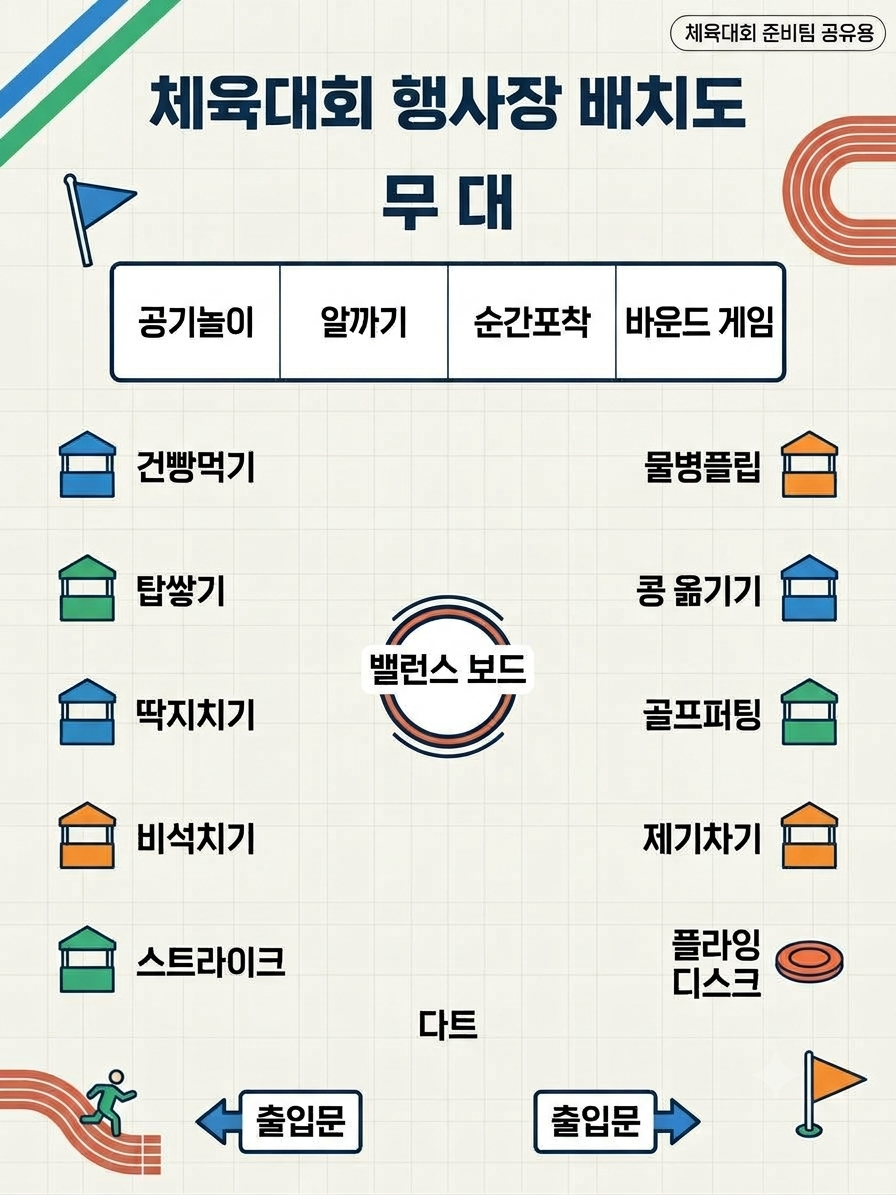
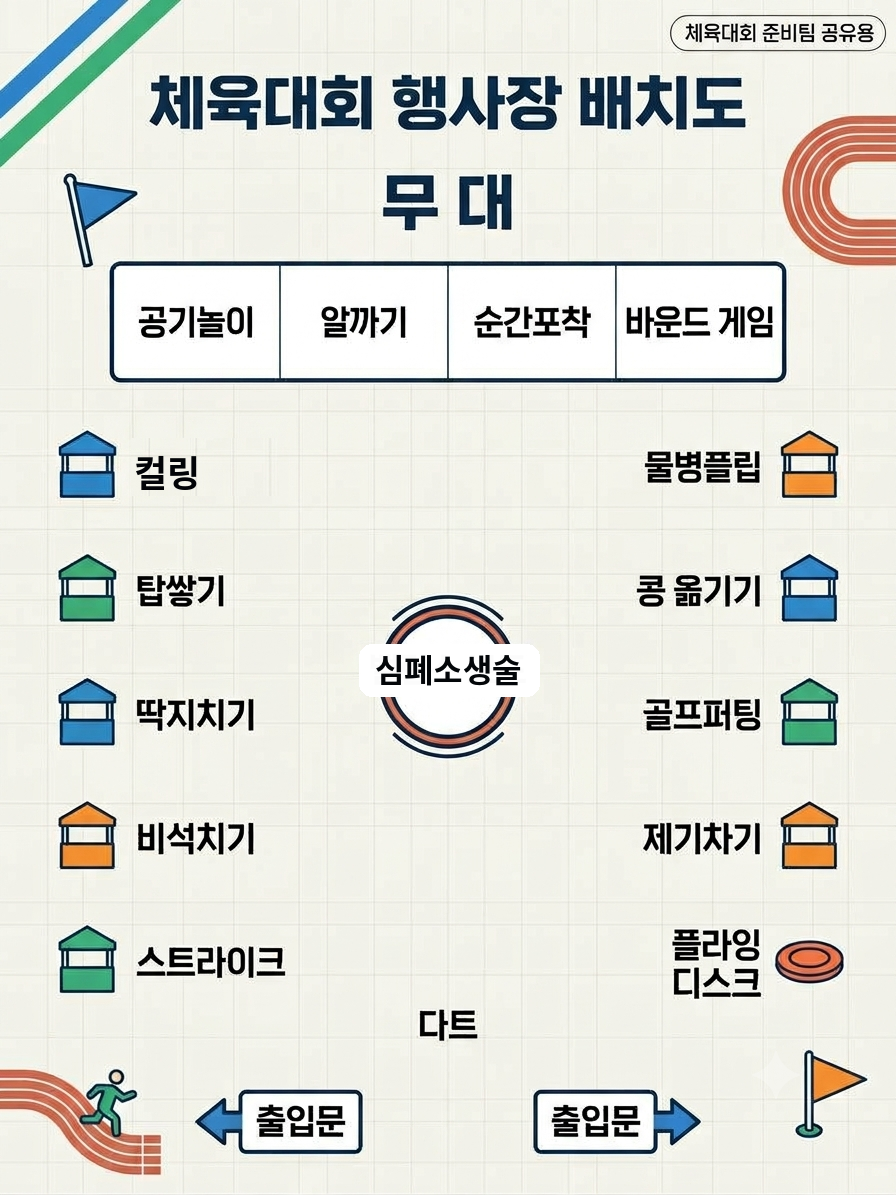
Add files via upload

Changed region(s): [[0.4062, 0.5264, 0.5938, 0.5883], [0.1562, 0.3715, 0.2812, 0.4335]]

diff --git a/index.html b/index.html
@@ -43,10 +43,9 @@
 <section class="view" id="page-notice" role="tabpanel" aria-labelledby="tab-notice" hidden><article class="card"><h2 class="section-title">알려드립니다</h2><p class="intro">접수·안전·기념품 등 현장에서 꼭 확인할 사항입니다.</p><ol class="notice-list" id="noticeList"></ol></article><article class="card"><h2 class="section-title">체육대회 운영 담당팀</h2><p class="intro">각 팀의 담당자와 주요 역할을 안내합니다. 참가자 검색 결과에서도 해당 직책을 확인할 수 있습니다.</p><div class="team-rows" id="opsList"></div></article></section>
 <section class="view" id="page-thanks" role="tabpanel" aria-labelledby="tab-thanks" hidden><article class="card"><h2 class="section-title">체육대회를 위해 찬조하신 분</h2><div class="thank"><b>💛 찬조해 주신 모든 분께 감사드립니다</b><p>전교인 한마음 체육대회를 위해 마음과 정성을 모아주신 기관과 개인에게 감사드립니다.</p></div><h2 class="sponsor-label">찬조 기관</h2><div class="chips" id="sponsorOrgs"></div><h2 class="sponsor-label">찬조 개인</h2><div class="chips" id="sponsorPeople"></div><p class="minor">무명 3명도 찬조해 주셨습니다.</p><h2 class="sponsor-label">찬조 물품</h2><div class="chips" id="sponsorGoods"></div></article></section>
 <section class="view" id="page-search" role="tabpanel" aria-labelledby="tab-search" hidden><article class="card"><h2 class="section-title">청팀 · 홍팀 검색</h2><p class="intro">이름을 입력하면 배정팀을 보여드립니다. 운영 담당자라면 해당 직책 및 맡은 경기 종목도 함께 표시됩니다.</p><div class="search-head"><div class="stat blue">🔵 청팀<strong>187명</strong></div><div class="stat red">🔴 홍팀<strong>189명</strong></div></div><form id="searchForm" class="searchForm" role="search"><label class="inputbox"><span aria-hidden="true">🔎</span><input id="nameInput" type="search" autocomplete="off" spellcheck="false" inputmode="search" enterkeyhint="search" maxlength="24" placeholder="이름을 입력하세요" aria-label="참가자 이름 검색"></label><button type="submit">검색</button></form><div class="tools"><span>이름 일부 검색 가능 · 공백 무관</span><button id="clearBtn" class="clear" type="button" hidden>검색어 지우기</button></div><div id="results" class="result" role="status" aria-live="polite"></div><div class="hint">동명이인 및 A·B 구분 명단은 모두 표시됩니다. 운영진 명단에서 A·B 구분이 없으면 담당자 본인 확인이 필요합니다.</div></article></section>
-<section class="view" id="page-game" role="tabpanel" aria-labelledby="tab-game" hidden><article class="card"><h2 class="section-title">2부게임 · 오후 미션경기</h2><p class="intro">13:30 ~ 15:00, 각 부스에서 미션에 도전하세요. 담당자 이름과 종목을 확인할 수 있습니다.</p><div id="gameGrid" class="game-grid"></div><p class="hint">아래 첨부 이미지는 기존 제작본으로 일부 종목명·담당자가 최신 안내와 다를 수 있으며, 위 목록은 최근 전달하신 텍스트 기준입니다.</p></article><article class="card"><h2 class="section-title">2부게임 자료 모음</h2><p class="intro">아래 이미지를 누르면 확대해서 확인할 수 있습니다.</p><div class="image-grid">
-<figure><img loading="lazy" src="games.png" data-zoom="true" alt="2부게임 심판 안내 이미지. 경기별 미션 설명과 종목 담당자"/><figcaption>① 2부게임 심판 안내</figcaption></figure>
-<figure><img loading="lazy" src="layout.png" data-zoom="true" alt="2부게임 배치도. 운동장 내 경기 부스 및 무대 출입문 위치"/><figcaption>② 2부게임 배치도</figcaption></figure>
-<figure class="wide"><img loading="lazy" src="table.jpg" data-zoom="true" alt="2부게임 테이블 필요 및 불필요 종목 구분표"/><figcaption>③ 테이블 설치 종목 구분표 (기존 이미지)</figcaption></figure>
+<section class="view" id="page-game" role="tabpanel" aria-labelledby="tab-game" hidden><article class="card"><h2 class="section-title">2부게임 · 오후 미션경기</h2><p class="intro">13:30 ~ 15:00, 각 부스에서 미션에 도전하세요. 담당자 이름과 종목을 확인할 수 있습니다.</p><div id="gameGrid" class="game-grid"></div><p class="hint">배치도의 종목명은 최신 기준으로 수정했습니다. 테이블 안내 이미지는 기존 자료이며, 현장 운영에 따라 변경될 수 있습니다.</p></article><article class="card"><h2 class="section-title">2부게임 자료 모음</h2><p class="intro">아래 이미지를 누르면 확대해서 확인할 수 있습니다.</p><div class="image-grid">
+<figure><img loading="lazy" src="layout.png" data-zoom="true" alt="2부게임 배치도. 운동장 내 경기 부스 및 무대 출입문 위치"/><figcaption>① 2부게임 배치도</figcaption></figure>
+<figure class="wide"><img loading="lazy" src="table.jpg" data-zoom="true" alt="2부게임 테이블 필요 및 불필요 종목 구분표"/><figcaption>② 테이블 설치 종목 구분표 (기존 이미지)</figcaption></figure>
 </div></article></section>
 </main>
 <footer class="bottom-note">양정중앙교회 · 전교인 한마음 체육대회<br>명단 정보는 이 파일 내부에서 검색되며 검색어는 서버로 보내지지 않습니다.</footer>

diff --git a/sw.js b/sw.js
@@ -1,5 +1,5 @@
-const CACHE='hanmaeum2026-v2-20261024';
-const ASSETS=['./','./index.html','./poster.jpg','./games.png','./layout.png','./table.jpg','./icon-192.png','./icon-512.png','./manifest.webmanifest'];
+const CACHE='hanmaeum2026-v4-layout-final-20261024';
+const ASSETS=['./','./index.html','./poster.jpg','./layout.png','./table.jpg','./icon-192.png','./icon-512.png','./manifest.webmanifest'];
 self.addEventListener('install', event => {
  event.waitUntil(caches.open(CACHE).then(c=>c.addAll(ASSETS)).then(()=>self.skipWaiting()));
 });
